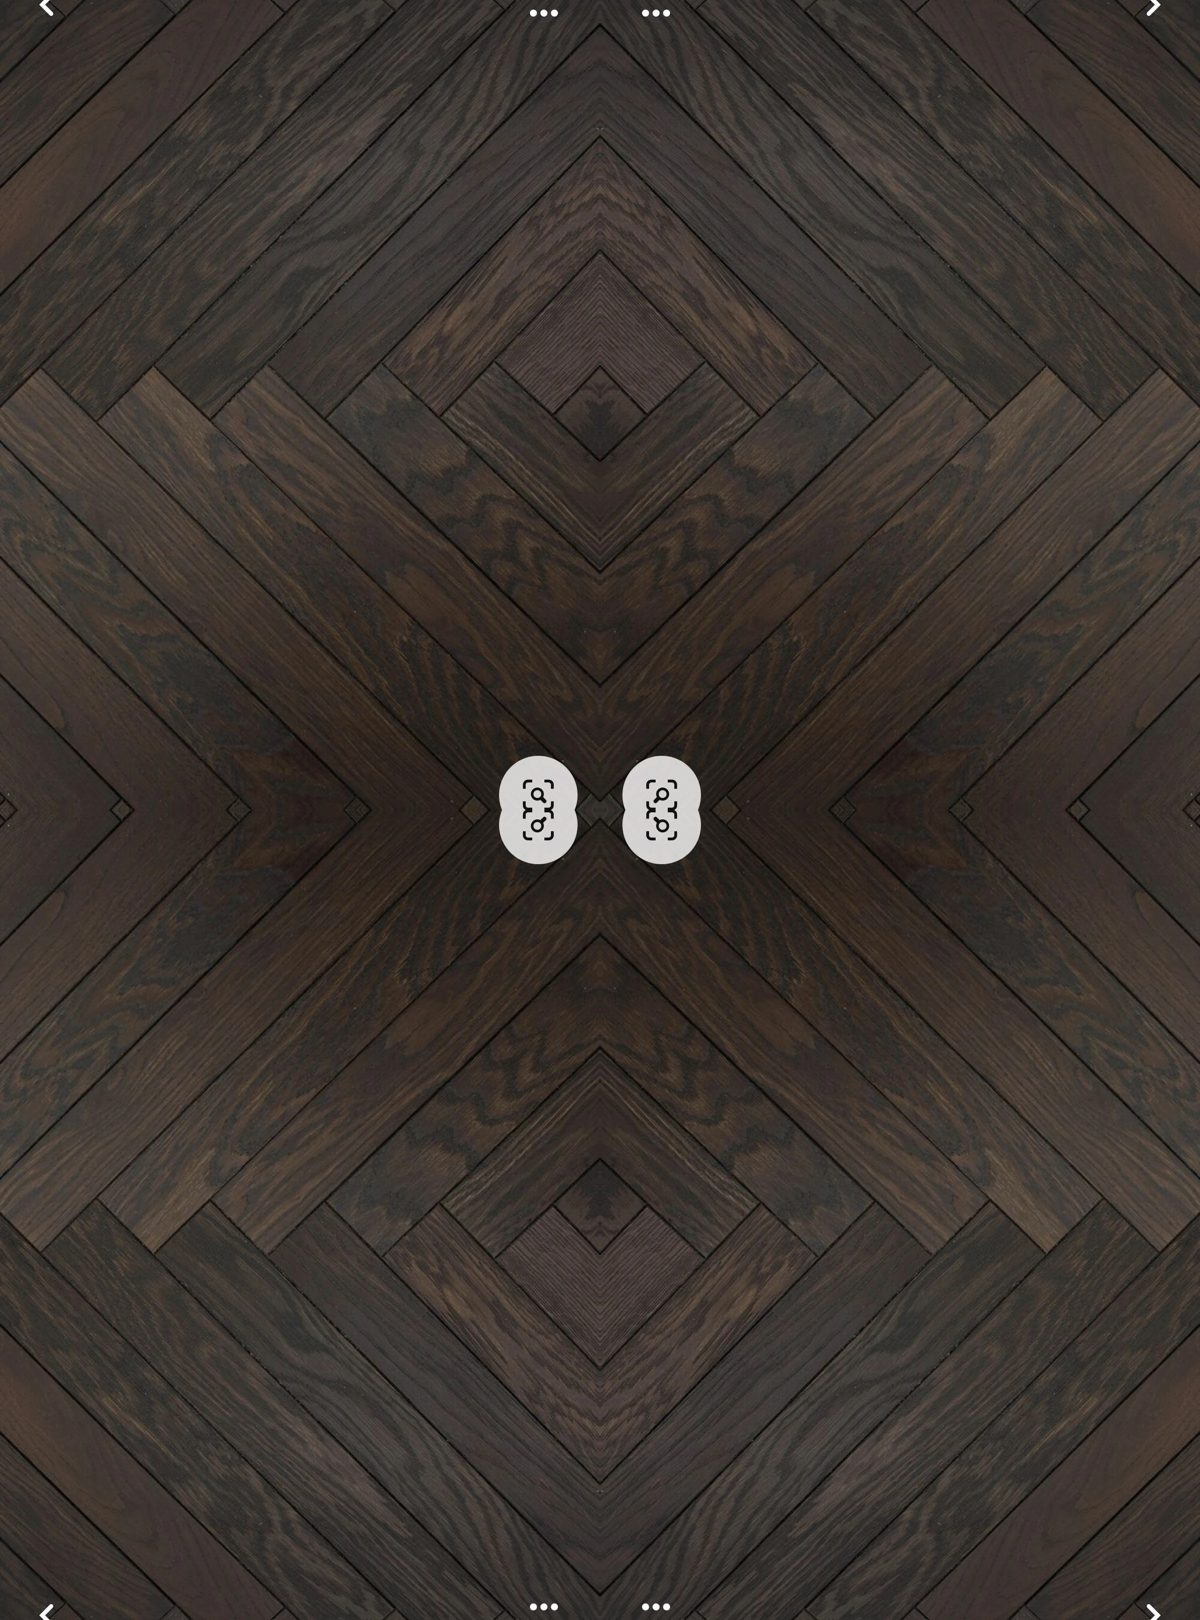
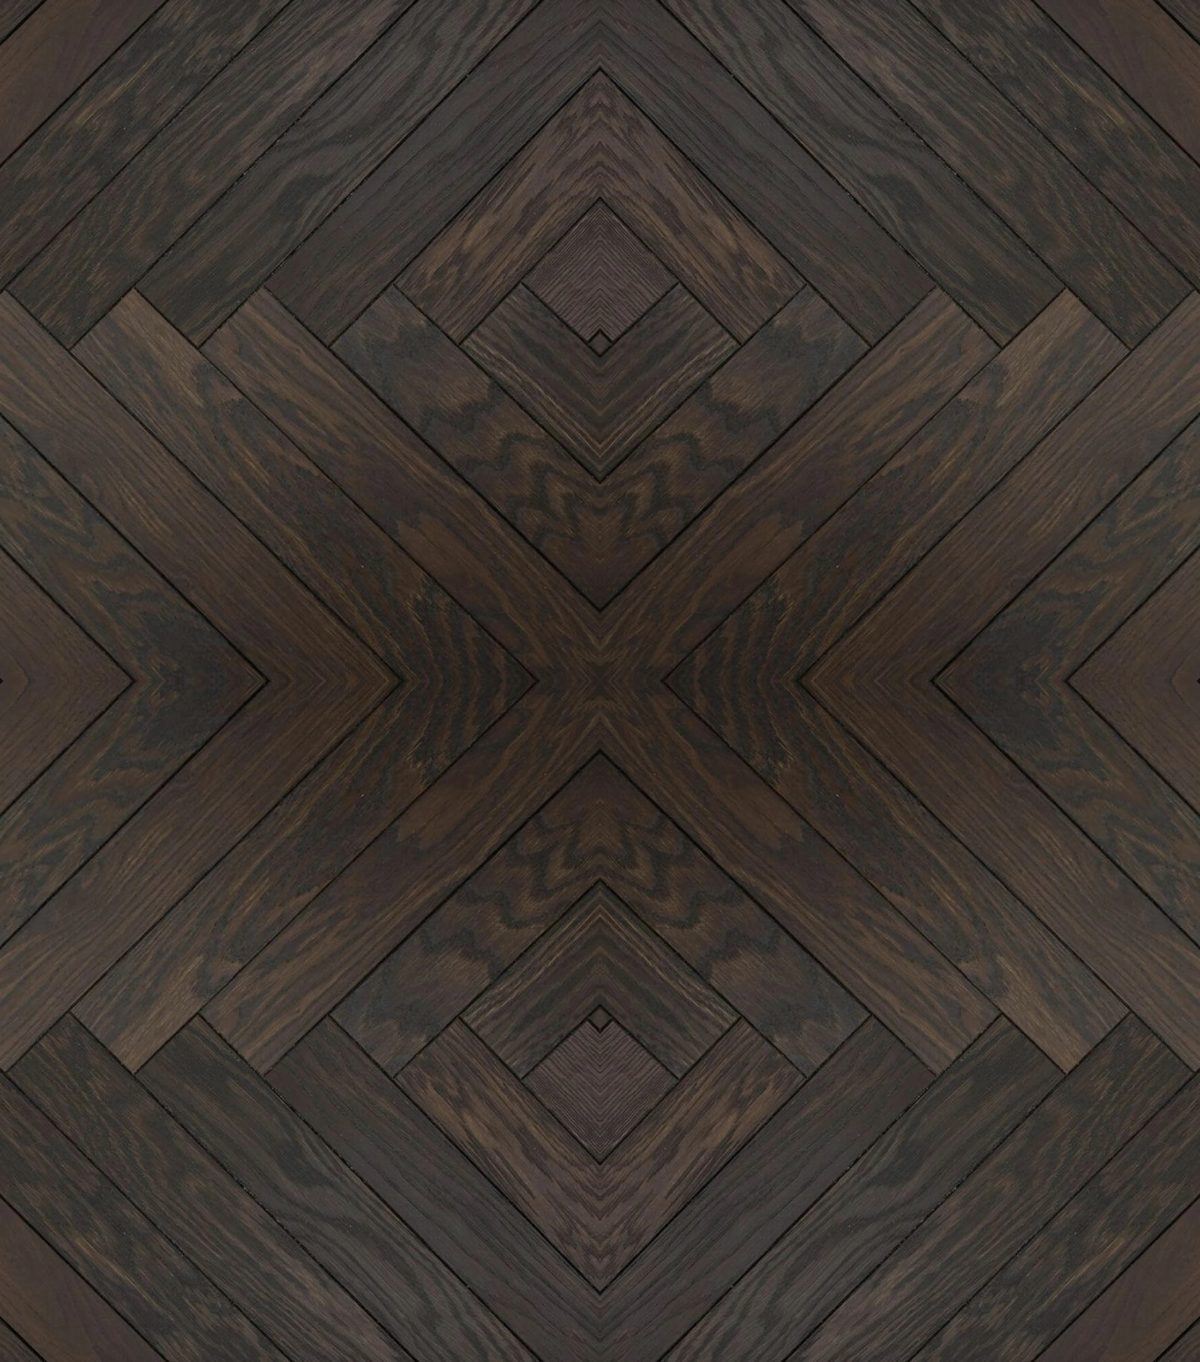
Wall art flows in rows (no overlap), single Yankees piece, clean floor tile without UI artifacts

diff --git a/src/components/Room.tsx b/src/components/Room.tsx
@@ -44,30 +44,14 @@ export function Room() {
 
   return (
     <div className="room2" ref={roomRef}>
-      {/* leaning framed print — only if you rep NY */}
-      {profile.tags.includes('Yankees') && (
-        <div className="room2__lean">
-          <img src="/room/art-ny.jpg" alt="" loading="lazy" />
-        </div>
-      )}
-
       {/* the dog lives here */}
       <img className="room2__dog" src="/room/dog.png" alt="" loading="lazy" />
 
-      {[
-        ['Yankees', '/room/art-yankees.jpg', '44%'],
-        ['Dodgers', '/room/art-dodgers.jpg', '57%'],
-      ]
-        .filter(([tag]) => profile.tags.includes(tag as string))
-        .map(([tag, img, left]) => (
-          <div className="room2__hangart" key={tag as string} style={{ left: left as string }}>
-            <img src={img as string} alt={`${tag} art`} loading="lazy" />
-          </div>
-        ))}
-
-      {/* wall posters from your teams */}
-      <div className="room2__posters">
-        {posters.length === 0 && <div className="room2__poster room2__poster--empty">FF</div>}
+      {/* the wall — everything flows in rows, top first, never overlapping */}
+      <div className="room2__wall">
+        {posters.length === 0 && !profile.tags.includes('Yankees') && !profile.tags.includes('Dodgers') && (
+          <div className="room2__poster room2__poster--empty">FF</div>
+        )}
         {posters.map((t) =>
           TEAM_POSTERS[t] ? (
             <div className="room2__poster" key={t}>
@@ -84,6 +68,16 @@ export function Room() {
               {t.toUpperCase()}
             </div>
           ),
+        )}
+        {profile.tags.includes('Yankees') && (
+          <div className="room2__poster" style={{ transform: 'rotate(-1.4deg)' }}>
+            <img src="/room/art-yankees.jpg" alt="Yankees caps painting" loading="lazy" />
+          </div>
+        )}
+        {profile.tags.includes('Dodgers') && (
+          <div className="room2__poster" style={{ transform: 'rotate(1.8deg)' }}>
+            <img src="/room/art-dodgers.jpg" alt="Dodgers art" loading="lazy" />
+          </div>
         )}
       </div>
 

diff --git a/src/styles.css b/src/styles.css
@@ -2996,20 +2996,6 @@ input.seg__control::placeholder {
   border-bottom: 1px solid #ddd5c6;
 }
 
-/* leaning framed print — base exactly at the wall/floor line */
-.room2__lean {
-  position: absolute;
-  bottom: 34%;
-  left: 40%;
-  width: 118px;
-  padding: 7px;
-  background: #fff;
-  border: 3px solid #b98a4e;
-  box-shadow: 12px 16px 22px rgba(60, 34, 8, 0.28);
-  transform: rotate(1.5deg) skewY(-1deg);
-  z-index: 1;
-}
-
 .room2__lean img {
   width: 100%;
   display: block;
@@ -3024,31 +3010,20 @@ input.seg__control::placeholder {
   z-index: 2;
 }
 
-/* hung art (unlocked by interests) */
-.room2__hangart {
-  position: absolute;
-  top: 24px;
-  left: 46%;
-  width: 92px;
-  padding: 5px;
-  background: #fff;
-  box-shadow: 0 8px 18px rgba(60, 34, 8, 0.22);
-  transform: rotate(-1.2deg);
-  z-index: 2;
-}
-
-.room2__hangart img {
-  width: 100%;
-  display: block;
-}
-
-.room2__posters {
+.room2__wall {
   position: absolute;
   top: 26px;
   right: 26px;
+  left: 44%;
+  bottom: 38%;
   display: flex;
-  gap: 14px;
+  flex-wrap: wrap;
+  gap: 16px;
+  justify-content: flex-end;
+  align-content: flex-start;
   z-index: 2;
+  pointer-events: none;
+  overflow: hidden;
 }
 
 .room2__poster {
@@ -3294,11 +3269,6 @@ input.seg__control::placeholder {
 }
 
 @media (max-width: 760px) {
-  .room2__posters {
-    top: 14px;
-    right: 14px;
-  }
-
   .room2__poster {
     width: 64px;
   }
